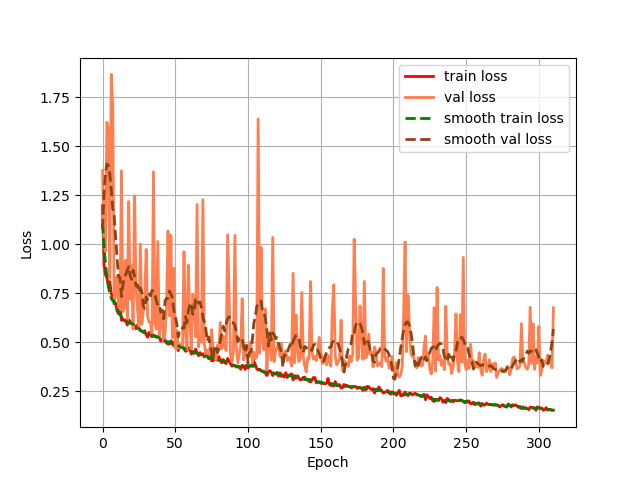
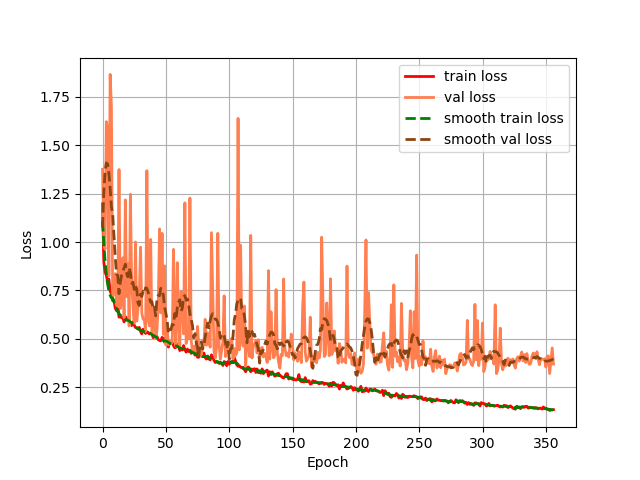
modify

diff --git a/train.py b/train.py
@@ -19,7 +19,7 @@ from utils.utils_fit import fit_one_epoch
 model_cfg = dict(
     description="pytorch deeplabv3plus fusion training",
     # ---------- 数据集超参数 -----------
-    data_path="../../dataset/SUIMdevkit_mini",  # dataset root
+    data_path="../../dataset/SUIMdevkit",  # dataset root
     # ---------- 卷积模型超参数 ----------
     backbone="repvgg",  #  所使用的的主干网络 "mobilenet", "xception"
     num_classes=7,
@@ -35,12 +35,12 @@ model_cfg = dict(
     sync_bn=False,  # 是否使用sync_bn，DDP模式多卡可用
     # ---------- 训练Epoch和Batch size超参数 ----------
     freeze_train=False,
-    freeze_batch_size=2,
-    unfreeze_batch_size=2,
+    freeze_batch_size=16,
+    unfreeze_batch_size=16,
     model_path="",
     init_epoch=0,
     freeze_epochs=0,
-    unfreeze_epochs=20,
+    unfreeze_epochs=500,
     # ---------- 训练的优化器超参数 ----------
     optimizer="sgd",
     # init_lr=1e-2,  # initial learning rate adam: 5e-4, sgd: 7e-3
